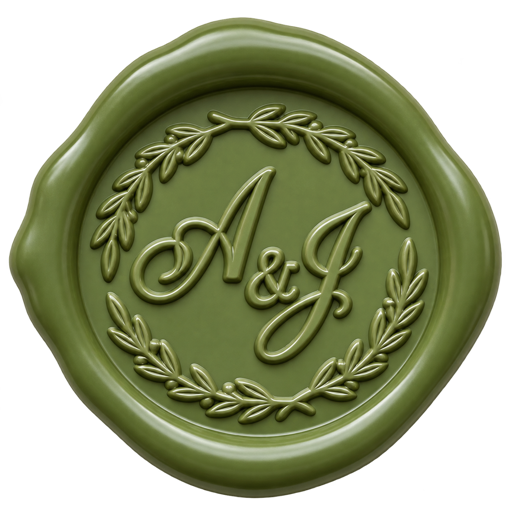
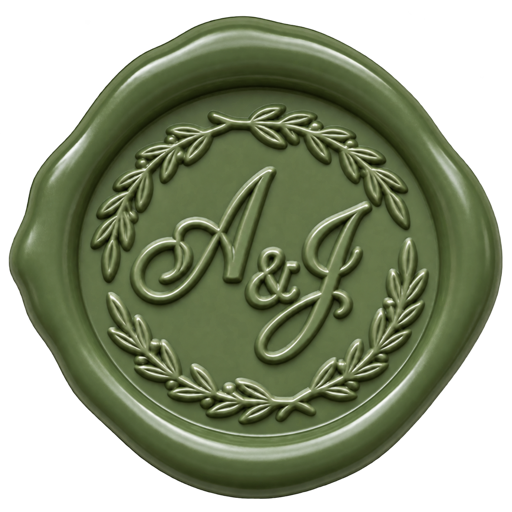
Restaurar controles y ajustar diseño del sobre

diff --git a/script.js b/script.js
@@ -40,7 +40,7 @@ window.onYouTubeIframeAPIReady = function () {
     events: {
       onReady: () => {
         musicPlayerReady = true;
-        musicPlayer.setVolume(20);
+        musicPlayer.setVolume(3);
         if (invitationOpened) musicControls.hidden = false;
         if (musicShouldPlay) musicPlayer.playVideo();
         updateMusicControls();
@@ -66,77 +66,6 @@ window.scrollTo(0, 0);
 pageContent.forEach((element) => { element.inert = true; });
 openButton.focus({ preventScroll: true });
 
-function startPetals() {
-  if (reduceMotion) return;
-
-  const petals = document.querySelector("#hero-petals");
-  const fragment = document.createDocumentFragment();
-  const petalCount = window.matchMedia("(max-width: 620px)").matches ? 18 : 28;
-
-  for (let index = 0; index < petalCount; index += 1) {
-    const petal = document.createElement("span");
-    petal.className = "hero__petal";
-    petal.style.cssText = `
-      left: ${(index + Math.random()) / petalCount * 100}%;
-      --petal-size: ${9 + Math.random() * 10}px;
-      --petal-duration: ${11 + Math.random() * 9}s;
-      --petal-delay: ${-Math.random() * 20}s;
-      --petal-drift: ${-65 + Math.random() * 130}px;
-      --petal-turn: ${180 + Math.random() * 360}deg;
-      --petal-sway: ${2 + Math.random() * 3}s;
-    `;
-    fragment.appendChild(petal);
-  }
-
-  petals.appendChild(fragment);
-  const updateDistance = () => {
-    petals.style.setProperty("--petal-fall-distance", `${invitation.offsetHeight + 80}px`);
-  };
-  updateDistance();
-  new ResizeObserver(updateDistance).observe(invitation);
-
-  let heroIsVisible = true;
-  const updatePlayback = () => {
-    petals.classList.toggle("is-active", heroIsVisible && !document.hidden);
-  };
-  new IntersectionObserver(([entry]) => {
-    heroIsVisible = entry.isIntersecting;
-    updatePlayback();
-  }).observe(invitation);
-  document.addEventListener("visibilitychange", updatePlayback);
-  updatePlayback();
-}
-
-function startScrollReveal() {
-  if (reduceMotion || !("IntersectionObserver" in window)) return;
-
-  const elements = document.querySelectorAll(`
-    .hero__content > *,
-    .countdown .eyebrow, .countdown .section-title, .countdown__grid > div,
-    .story__image, .story__content > *,
-    .place__photo, .place__card > *,
-    .schedule .eyebrow, .schedule .section-title, .timeline__item,
-    .details__heading > *, .detail-card,
-    .rsvp__content > *, .footer > *
-  `);
-  const siblingDelays = new Map();
-  const observer = new IntersectionObserver((entries) => {
-    entries.forEach((entry) => {
-      if (!entry.isIntersecting) return;
-      entry.target.classList.add("is-visible");
-      observer.unobserve(entry.target);
-    });
-  }, { threshold: 0.08, rootMargin: "0px 0px -40px 0px" });
-
-  elements.forEach((element) => {
-    const siblingIndex = siblingDelays.get(element.parentElement) || 0;
-    siblingDelays.set(element.parentElement, siblingIndex + 1);
-    element.style.setProperty("--reveal-delay", `${Math.min(siblingIndex, 3) * 90}ms`);
-    element.classList.add("scroll-reveal");
-    observer.observe(element);
-  });
-}
-
 function openInvitation() {
   if (intro.classList.contains("is-opening")) return;
 
@@ -151,9 +80,7 @@ function openInvitation() {
     document.body.classList.remove("is-intro-active");
     pageContent.forEach((element) => { element.inert = false; });
     invitationOpened = true;
-    startScrollReveal();
-    startPetals();
-    if (musicPlayerReady) musicControls.hidden = false;
+    musicControls.hidden = false;
     window.scrollTo(0, 0);
     invitation.focus({ preventScroll: true });
   }, reduceMotion ? 120 : 1900);

diff --git a/style.css b/style.css
@@ -137,21 +137,6 @@ body.is-intro-active {
   }
 }
 
-/* Aparición progresiva al recorrer la invitación */
-.scroll-reveal {
-  opacity: 0;
-  translate: 0 26px;
-  transition:
-    opacity 750ms ease var(--reveal-delay, 0ms),
-    translate 850ms cubic-bezier(0.2, 0.65, 0.3, 1) var(--reveal-delay, 0ms);
-}
-
-.scroll-reveal.is-visible,
-.scroll-reveal:focus-within {
-  opacity: 1;
-  translate: 0 0;
-}
-
 /* Pantalla de apertura */
 .intro {
   display: grid;
@@ -222,7 +207,7 @@ body.is-intro-active {
 }
 
 .intro__title span {
-  color: var(--sage);
+  color: inherit;
 }
 
 .intro__hint {
@@ -535,71 +520,6 @@ a {
   position: absolute;
   inset: 0;
   background: radial-gradient(circle at 50% 40%, transparent 0, rgba(12, 27, 23, 0.12) 48%, rgba(12, 27, 23, 0.5) 100%);
-}
-
-.hero__petals {
-  position: absolute;
-  inset: 0;
-  z-index: 1;
-  overflow: hidden;
-  pointer-events: none;
-}
-
-.hero__petal {
-  position: absolute;
-  top: -40px;
-  width: var(--petal-size);
-  height: var(--petal-size);
-  animation: petal-fall var(--petal-duration) var(--petal-delay) linear infinite;
-  animation-play-state: paused;
-}
-
-.hero__petal::before {
-  display: block;
-  width: 100%;
-  height: 70%;
-  border-radius: 75% 15% 65% 35%;
-  background: linear-gradient(135deg, #fff7ed 10%, #efd5ce 65%, #d5aaa4);
-  box-shadow: inset 1px 1px 2px rgba(255, 255, 255, 0.45);
-  content: "";
-  animation: petal-sway var(--petal-sway) var(--petal-delay) ease-in-out infinite alternate;
-  animation-play-state: paused;
-}
-
-.hero__petal:nth-child(3n)::before {
-  background: linear-gradient(135deg, #fffdf4, #e7dfca);
-}
-
-.hero__petal:nth-child(4n)::before {
-  border-radius: 15% 75% 35% 65%;
-}
-
-.hero__petals.is-active .hero__petal,
-.hero__petals.is-active .hero__petal::before {
-  animation-play-state: running;
-}
-
-@keyframes petal-fall {
-  0% {
-    opacity: 0;
-    transform: translate3d(0, 0, 0) rotate(0deg);
-  }
-  10%, 85% {
-    opacity: 0.8;
-  }
-  100% {
-    opacity: 0;
-    transform: translate3d(var(--petal-drift), var(--petal-fall-distance), 0) rotate(var(--petal-turn));
-  }
-}
-
-@keyframes petal-sway {
-  from {
-    transform: translateX(-14px) rotate(-25deg) scaleX(0.65);
-  }
-  to {
-    transform: translateX(14px) rotate(25deg) scaleX(1);
-  }
 }
 
 .nav {
@@ -1249,16 +1169,6 @@ a {
 }
 
 @media (prefers-reduced-motion: reduce) {
-  .scroll-reveal {
-    opacity: 1;
-    translate: none;
-    transition: none;
-  }
-
-  .hero__petals {
-    display: none;
-  }
-
   html {
     scroll-behavior: auto;
   }

diff --git a/index.html b/index.html
@@ -8,7 +8,7 @@
       content="Invitación de boda de Andrea y José. Consulta todos los detalles de nuestro gran día."
     />
     <title>Andrea y José — Nuestra boda</title>
-    <link rel="stylesheet" href="style.css?v=20261020-andrea-jose" />
+    <link rel="stylesheet" href="style.css?v=20261020-seal-5d7848" />
   </head>
 
   <body class="is-intro-active">
@@ -31,7 +31,7 @@
           <span class="envelope__front envelope__front--right" aria-hidden="true"></span>
           <span class="envelope__front envelope__front--bottom" aria-hidden="true"></span>
           <span class="envelope__seal" aria-hidden="true">
-              <img src="sello-andrea-jose.png?v=2c9019f" alt="" />
+              <img src="sello-andrea-jose.png?v=5d7848" alt="" />
           </span>
         </button>
 
@@ -205,6 +205,6 @@
       <p>03 de abril de 2027 · Málaga</p>
     </footer>
 
-    <script src="script.js"></script>
+    <script src="script.js?v=20261020-music-controls"></script>
   </body>
 </html>
